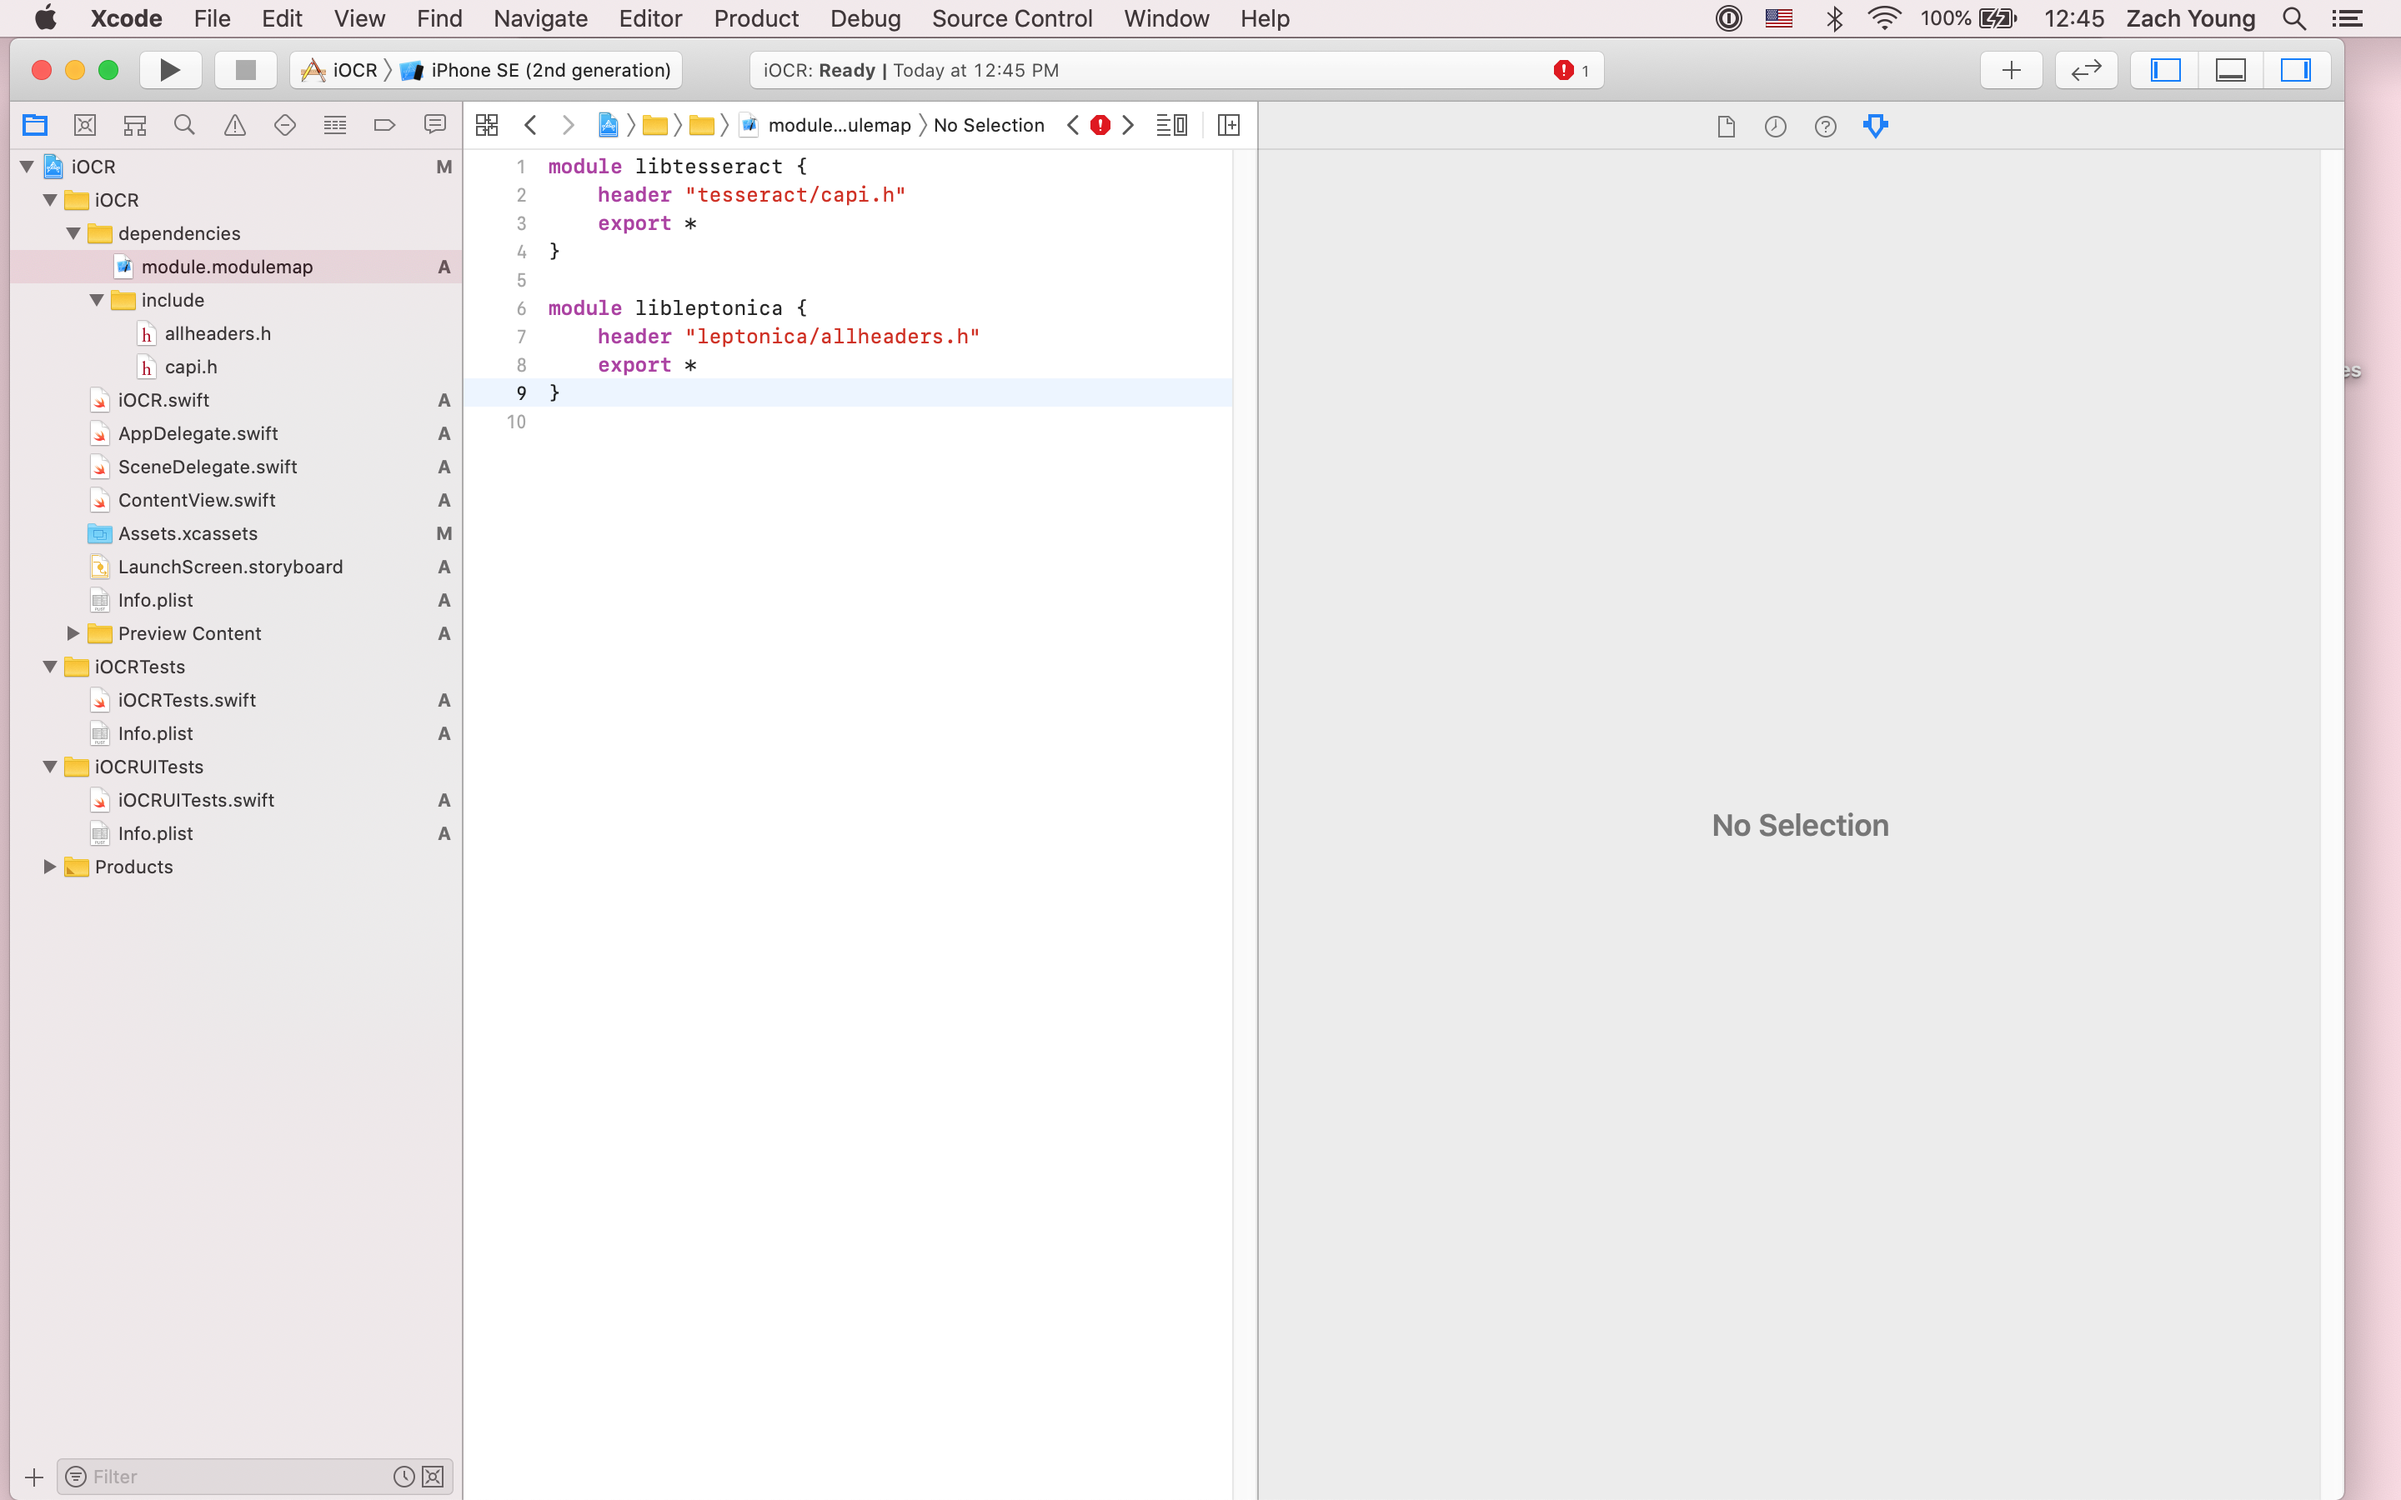
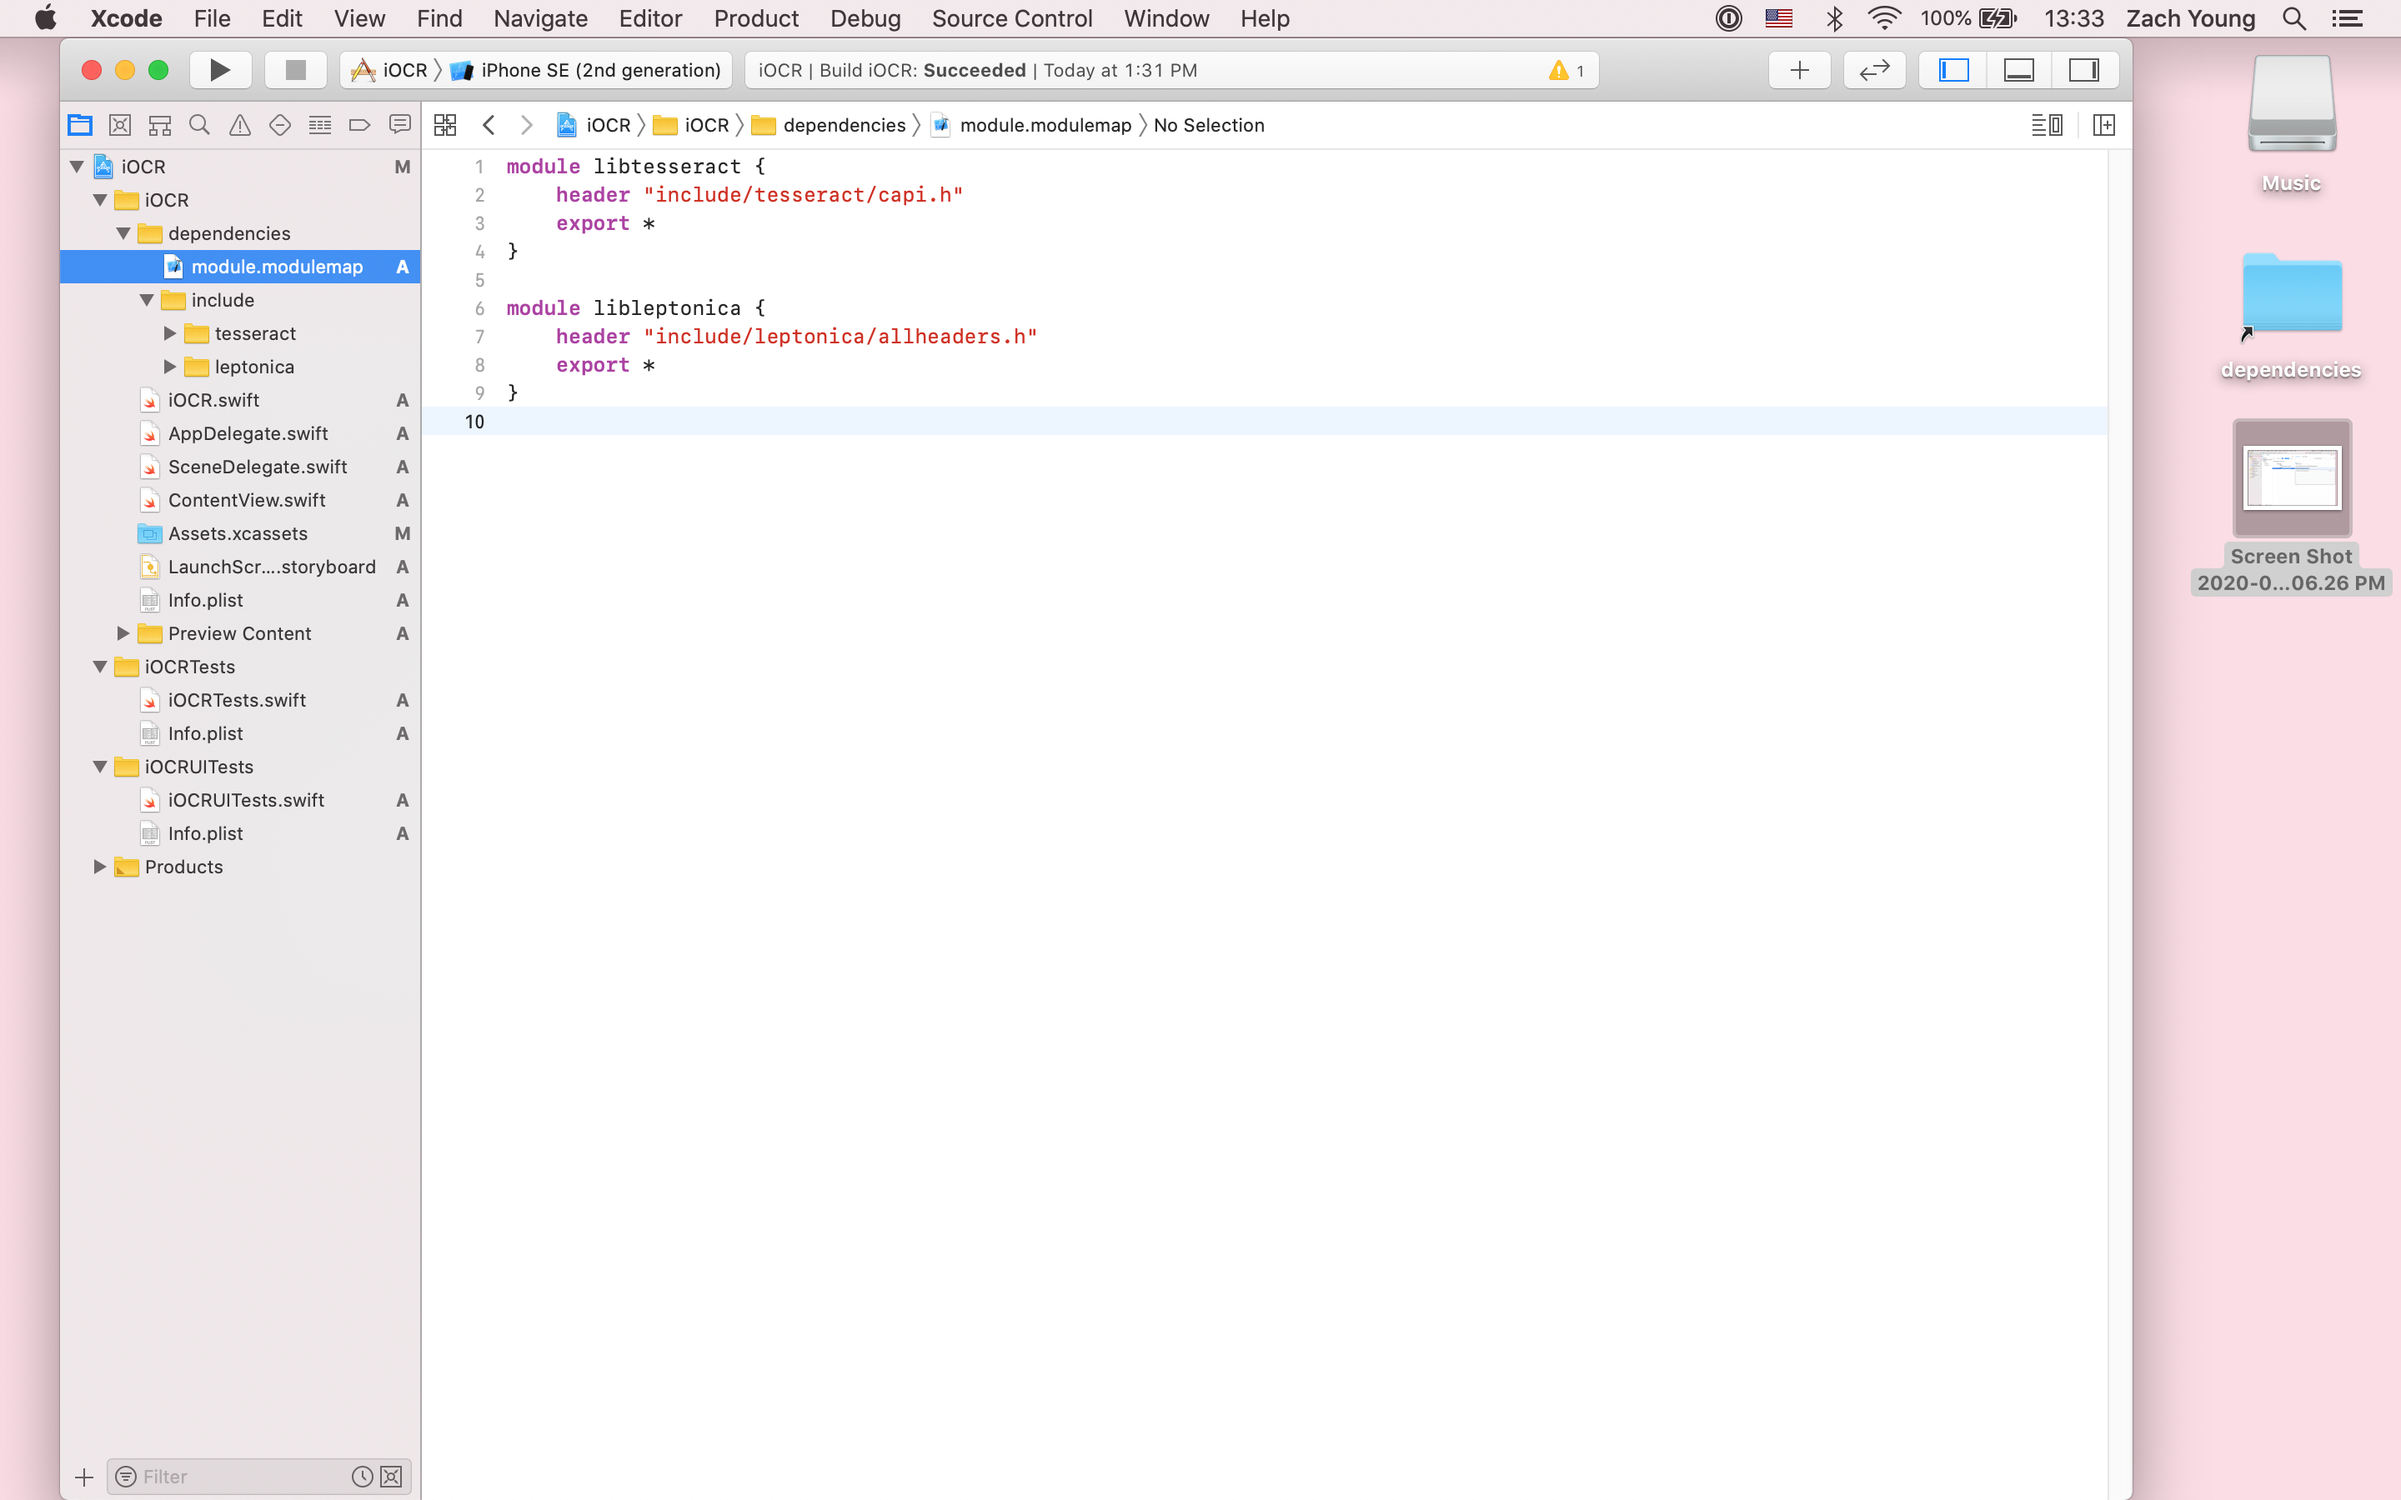
blah

diff --git a/README.md b/README.md
@@ -132,11 +132,11 @@ Much of the insight into configurating and executing the build up to this point 
 
 Our two libraries, Leptonica and Tesseract, need to be copied into the project and made known to Xcode as 2 different modules.
 
-1. Copy over the only two headers we need into a new **dependencies** folder:
+1. Copy over the headers into a new **dependencies** folder:
 
     ```zsh
-    ditto $ROOT/include/leptonica/allheaders.h iOCR/iOCR/dependencies/include/allheaders.h
-    ditto $ROOT/include/tesseract/capi.h iOCR/iOCR/dependencies/include/capi.h
+    ditto $ROOT/include/leptonica iOCR/iOCR/dependencies/include/leptonica
+    ditto $ROOT/include/tesseract/ iOCR/iOCR/dependencies/include/tesseract
     ```
 
     I'm ignoring the libs for now because the error is about modules.
@@ -153,21 +153,26 @@ Our two libraries, Leptonica and Tesseract, need to be copied into the project a
 
     ```swift
     module libtesseract {
-        header "tesseract/capi.h"
+        header "include/tesseract/capi.h"
         export *
     }
 
     module libleptonica {
-        header "leptonica/allheaders.h"
+        header "include/leptonica/allheaders.h"
         export *
     }
     ```
 
 1. My project now looks like:
 
-    <img height="241" src="Notes/static/guide/module_final_structure_cropped.png"/>
+    <img height="241" src="Notes/static/guide/module_final_structure_cropped.png"/> d
 
 1. Set the **SWIFT_INCLUDE_PATHS** in the project's build settings to **$(PROJECTDIR)/iOCR/dependencies/\*\***:
 
-    <img height="540" src="Notes/static/guide/2_swift_include_paths_cropped.png"/>
+    <img src="Notes/static/guide/2_swift_include_paths_cropped.png"/>
 
+    Xcode converts the **/\*\*** part at the end of the path to that **recursive** value in the bottom-right of image.
+
+1. **Product** &rarr; **Build**, and that error is cleared:
+
+    <img height="200" src="Notes/static/guide/build_succeeded.png"/>
